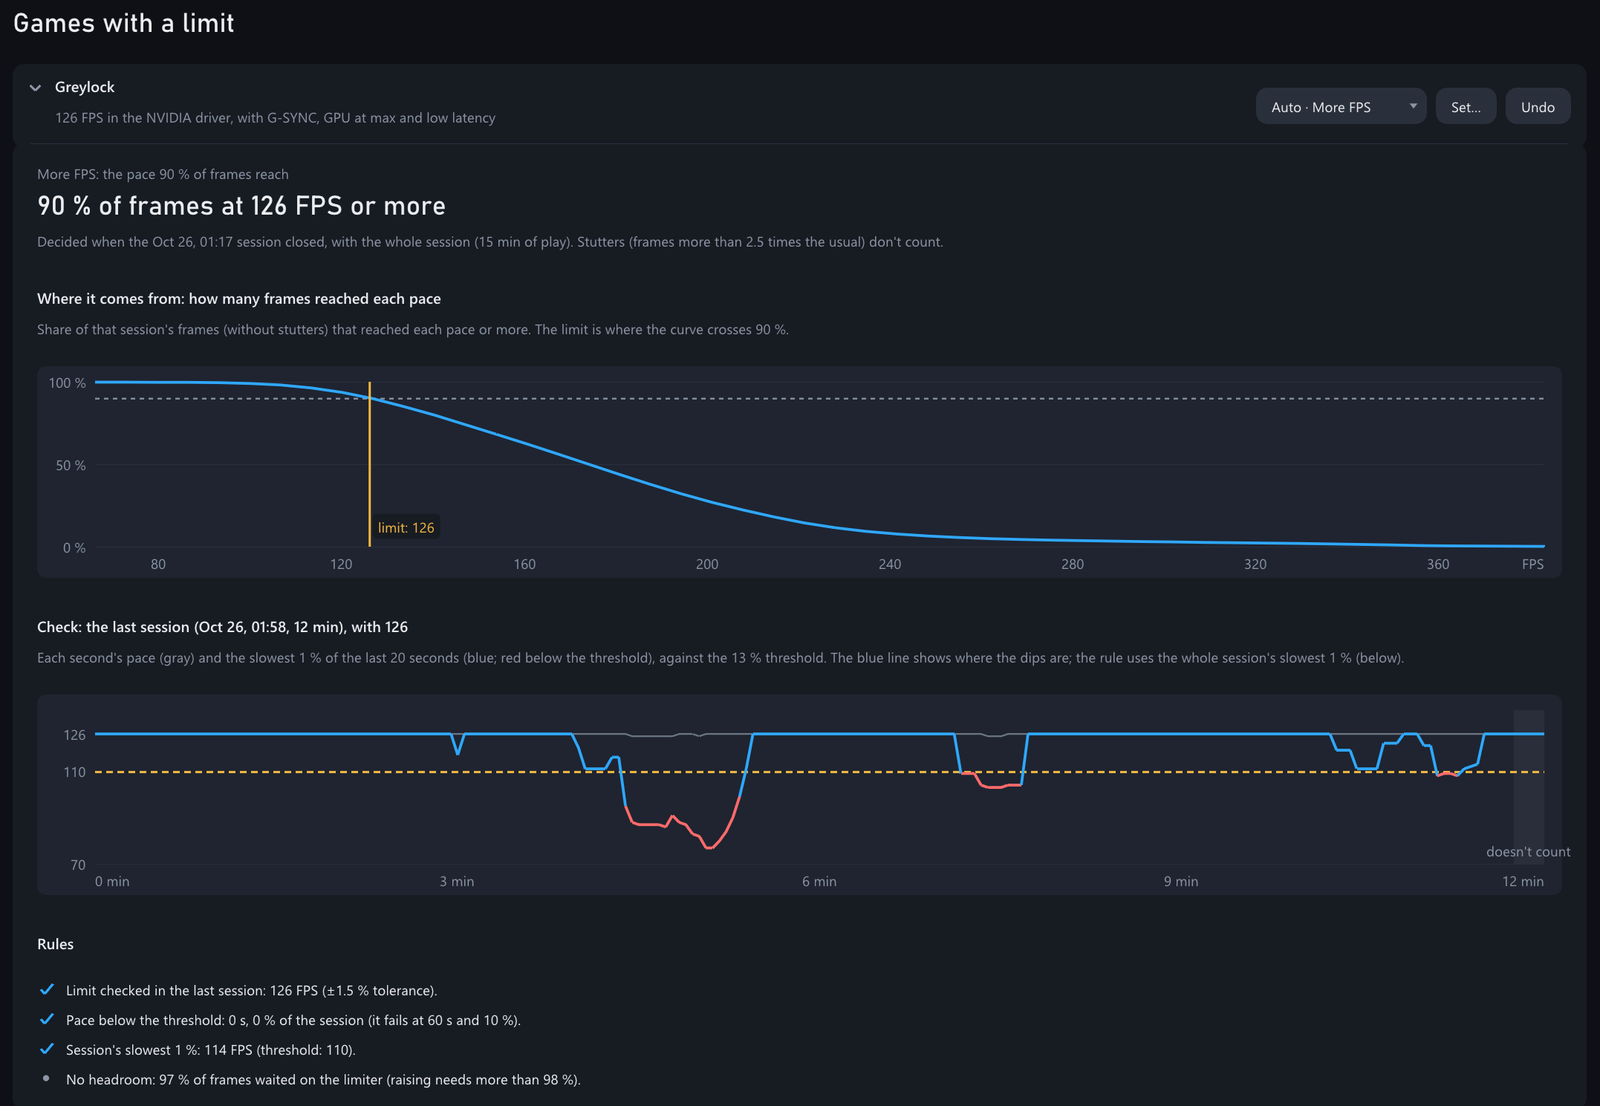
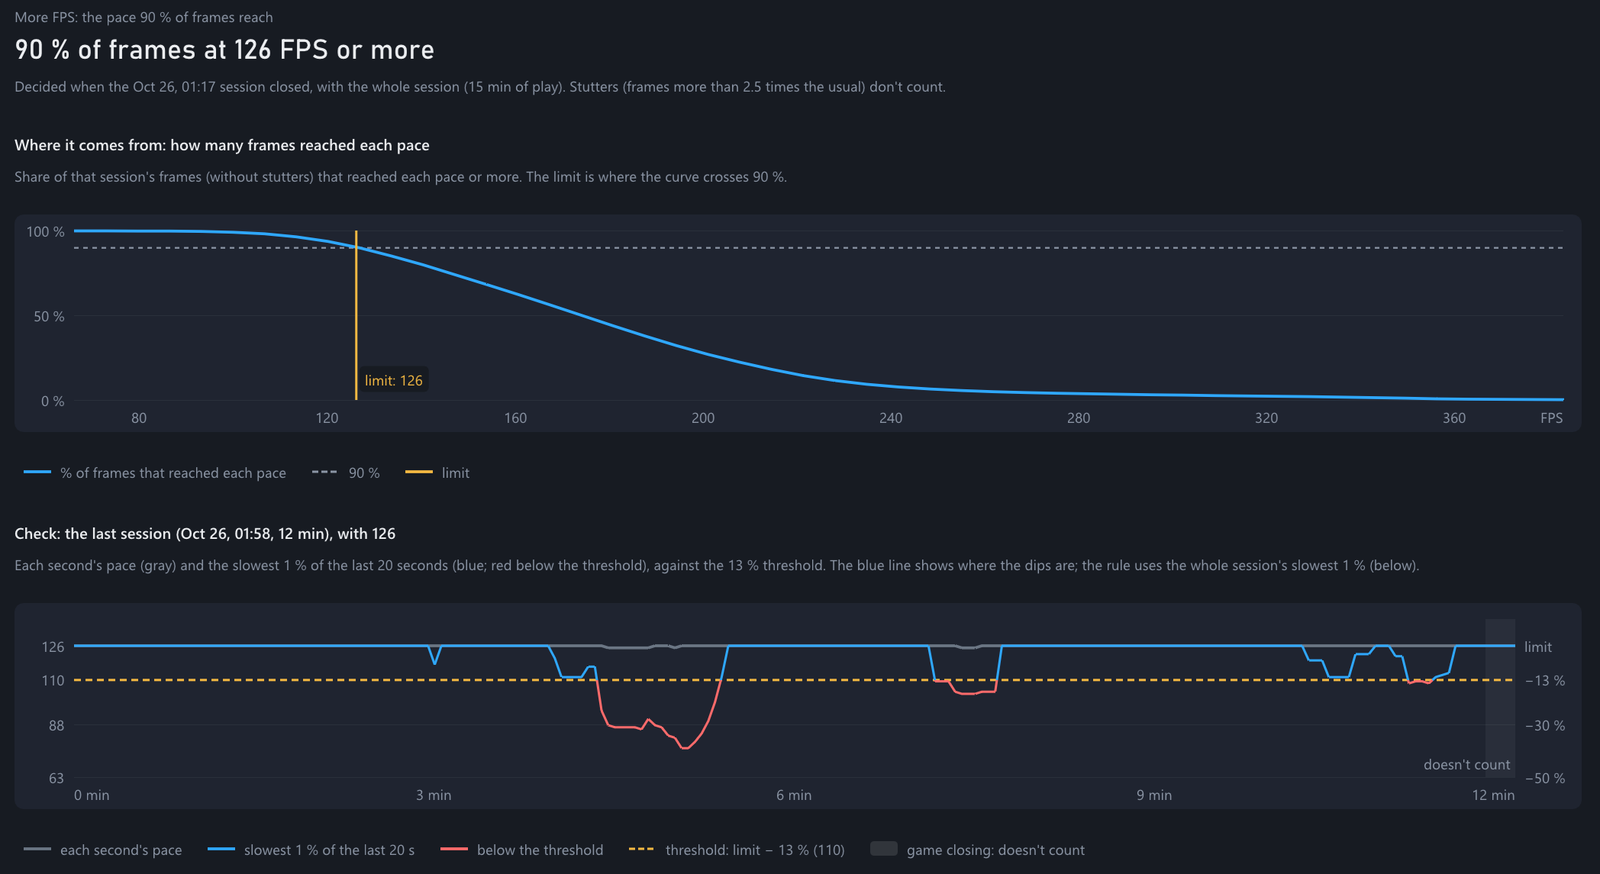
README: new Games screenshot with chart legends and fixed scale
- Replace docs/img/juegos.png with the 0.67.3 dropdown: the limit's
  formula, the curve with its legend, and the check chart with the fixed
  50-110 % scale, the percentage marks and its legend.
- Update the image's alt text in both READMEs.

diff --git a/CHANGELOG.md b/CHANGELOG.md
@@ -3,6 +3,7 @@
 Formato basado en [Keep a Changelog](https://keepachangelog.com/es-ES/1.1.0/). La versión más reciente va primero.
 
 ## 0.67.3
+- **README:** captura nueva del desplegable de *Juegos*, con las leyendas y la escala fija de la comprobación.
 - **La gráfica de la comprobación ya no exagera las caídas.** Su escala vertical se ajustaba a la caída más profunda de cada partida y empezaba cerca de ella: una bajada del 1 % más lento ocupaba casi toda la altura y parecía peor de lo que era, y una partida no se podía comparar con otra. Ahora la escala es fija respecto al límite, del 50 % al 110 % (con 126, de 63 a 139): el umbral del 13 % queda siempre a la misma altura, y a la derecha se lee cuánto cae cada tramo (*"−13 %"*, *"−30 %"*, *"−50 %"*). No se empieza en 0 para no aplastar la zona entre el límite y el umbral, que es la que deciden las reglas.
 - **La línea gris (el ritmo de cada segundo, lo habitual) es más gruesa,** y la del 1 % más lento (lo peor de cada momento), algo más fina, para que la vista no se vaya solo a lo peor.
 

diff --git a/README.es.md b/README.es.md
@@ -42,7 +42,7 @@ Capturas con la interfaz en inglés.
 
 **Juegos** reúne la prioridad y cada juego con su límite, descrito con palabras, y sus botones (prioridad propia, límite manual y deshacer). Al desplegar un juego se ve de dónde sale su límite: la regla y la fórmula con sus números, la curva de la partida que lo decidió, la última partida segundo a segundo frente al umbral del 13 % y el resultado de cada regla:
 
-![La sección Juegos con Greylock desplegado: la fórmula del límite, la curva de la partida que lo decidió, la comprobación de la última partida y las reglas](docs/img/juegos.png)
+![El desplegable de Greylock en Juegos: la fórmula del límite, la curva de la partida que lo decidió y la comprobación de la última partida, con sus leyendas](docs/img/juegos.png)
 
 ## Requisitos y compatibilidad
 

diff --git a/README.md b/README.md
@@ -42,7 +42,7 @@ Screenshots with the English interface.
 
 **Games** brings together the priority and each game with its limit, described in words, and its buttons (its own priority, manual limit and undo). Unfolding a game shows where its limit comes from: the rule and the formula with its numbers, the curve of the session that decided it, the last session second by second against the 13 % threshold and each rule's result:
 
-![The Games section with Greylock unfolded: the limit's formula, the curve of the deciding session, the check of the last session and the rules](docs/img/juegos.png)
+![Greylock's dropdown in Games: the limit's formula, the curve of the deciding session and the check of the last session, with their legends](docs/img/juegos.png)
 
 ## Requirements and compatibility
 
